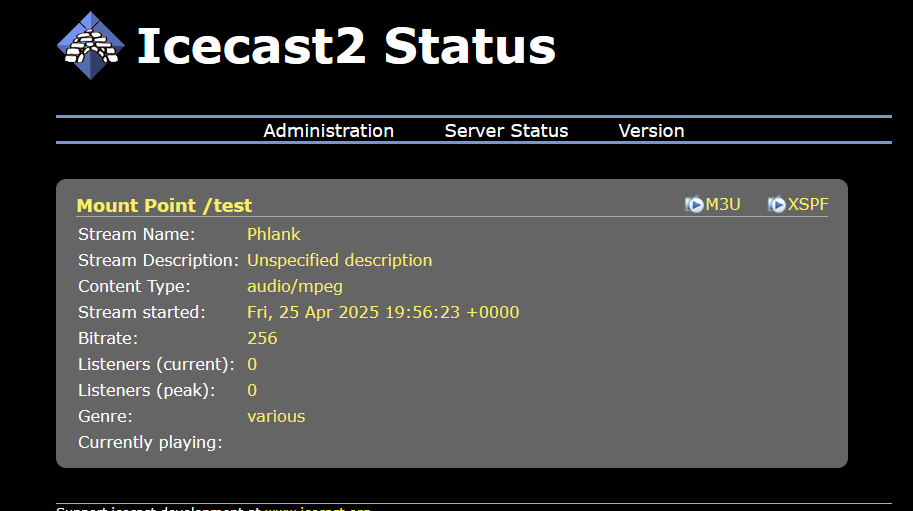
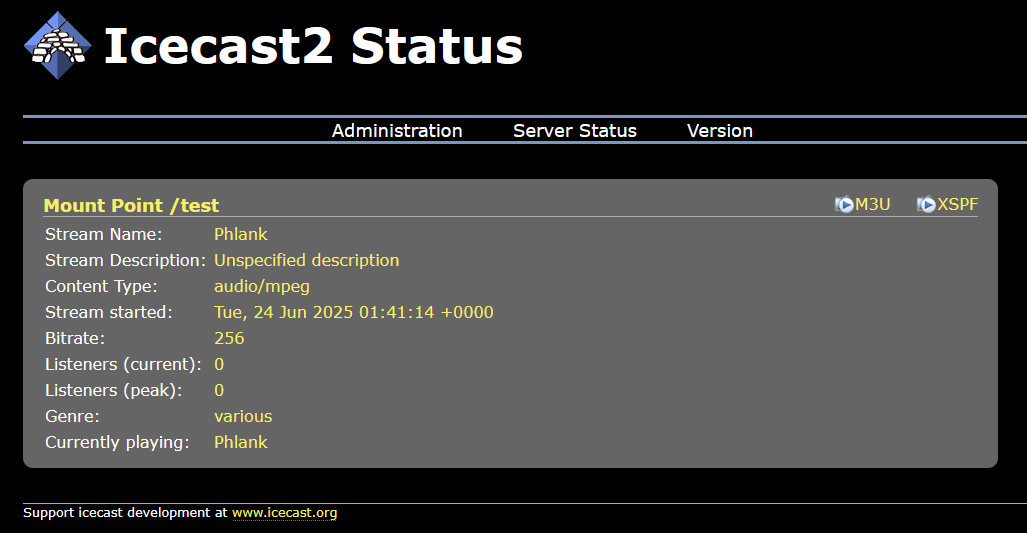
#214 Update software stream instructions

diff --git a/src/client/src/components/views/dashboard/streaming/SoftwareStreamingDirections.vue b/src/client/src/components/views/dashboard/streaming/SoftwareStreamingDirections.vue
@@ -1,12 +1,14 @@
 <template>
   <div class="software-streaming-directions">
-    <h2>Streaming from DJ software</h2>
+    <h4>Introduction</h4>
     <p>
-      Most DJing software has streaming capabilities built in. For the purpose of these
+      Many DJ software applications have streaming capability built in. For those that don't, this
+      guide won't be very useful, but that doesn't mean they can't be used. Skip to the end if you
+      are a Serato user or use another software without streaming built-in. For the purpose of these
       instructions, I will show the process on the open-source, cross-platform DJing software
-      <a href="https://mixxx.org/">Mixxx</a>.
+      <a href="https://mixxx.org/">Mixxx.</a>
     </p>
-    <h3>Stream settings</h3>
+    <h4>Stream settings</h4>
     <p>
       In Mixxx, first open the Preferences menu by clicking on Options in the menu bar and then
       Preferences.
@@ -17,8 +19,8 @@
     <p>
       From here, find the Live Broadcasting section on the left-side navigation of the Preferences
       menu. In here, you will set up the connection and stream info. Set the first sections up to
-      match what is given in the below image.
-      <b>You will need to ask @phlank in discord for the password.</b>
+      match what is given in the below image. The password is
+      {{ connectionInfoStore.testInfo()?.password }}
     </p>
     <img
       alt="How to locate the Live Broadcasting section, and the first set of items available"
@@ -27,53 +29,80 @@
       You <i>MUST</i> use MP3 for the encoding in order for all browsers to be able to listen to the
       stream. 256kbps is the minimum bitrate we will use for quality reasons.
     </Message>
-    <p>Next, scroll down and set up the stream info.</p>
+    <h4>Stream metadata</h4>
+    <p>
+      Scroll down and set up the stream info. In whatever software you are using, the track title is
+      what will appear on the play button on the website.
+    </p>
     <img
       alt="Stream info setup"
       src="@/assets/stream-setup-img/mixxx-broadcasting-test-2.png" />
+    <p>Finally, click the Apply button at the bottom right and close the Preferences window.</p>
+    <h4>Test stream</h4>
     <p>
-      Finally, click the Apply button at the bottom right and close the Preferences window. Now,
-      click on the following to begin streaming to the "test" location:
+      Start broadcasting. In Mixxx, click the On Air button at the top right of the main window to
+      begin. Once the button turns green to indicate a good connection, start playing a song.
     </p>
     <img
       alt="Directions for starting the broadcast stream"
       src="@/assets/stream-setup-img/mixxx-broadcasting-test-3.png" />
     <p>
-      After clicking on Enable Live Broadcasting, navigate to the server's
-      <a :href="streamStatus">stream status page</a>. You should see your stream appear like so:
+      Navigate to the
+      <a href="https://lowpressurezone.com:8443/">test stream status page.</a> You should see your
+      stream appear like below. You may need to send audio to see the Now Playing field appear.
     </p>
     <img
       alt="Broadcasting debug test"
       src="@/assets/stream-setup-img/broadcasting-debug-test.png" />
     <p>
-      If your connection was unsuccessful and someone else is using the /test mount point, you can
-      change the Mount in your Server connection settings to <kbd>test2</kbd>.
+      On your phone, navigate to the
+      <a href="https://lowpressurezone.com:8443/test">test audio page.</a> Listen for a moment and
+      make sure that the audio sounds good. Disconnect when you are done.
     </p>
+    <h4>Live stream settings</h4>
     <p>
-      After seeing your appropriate stream info appear on the debug page, navigate to the stream's
-      URL to listen and ensure things sound okay. The URL will be
-      <kbd>https://lowpressurezone.com:8443/{mount}</kbd>, where <kbd>{mount}</kbd> is either
-      <kbd>test</kbd> or <kbd>test2</kbd>.
+      Now that you have streaming configured, open the preferences for streaming again and update
+      the information to match the Live Stream configuration below. The next time you stream, it
+      will be accessible through the play button on the website.
     </p>
+    <img
+      alt="Mixxx live configuration"
+      src="@/assets/stream-setup-img/mixxx-live-config.png" />
+    <p>The password for the live stream is the same as the test stream.</p>
+    <h4>Software without streaming</h4>
     <p>
-      Now that you have streaming configured, change your Mount to <kbd>live</kbd>, and the next
-      time you stream, it will be accessible through the play button on the website :)
+      Several people on the server use Serato. However, those users typically use some type of
+      virtual audio cable software and route the application audio into a program called Butt.
+      Instructions for connecting to the stream with Butt are on the Decks and Mixer tab at the top
+      of this page. A recommended option for the virtual audio cable software is VB-CABLE, which
+      works on both Windows and Mac.
     </p>
   </div>
 </template>
 
 <script lang="ts" setup>
 import { Message } from 'primevue'
+import { useConnectionInfoStore } from '@/stores/connectionInfoStore.ts'
+import { onMounted } from 'vue'
 
-const streamStatus = import.meta.env.VITE_STREAM_STATUS_URL
+const connectionInfoStore = useConnectionInfoStore()
+
+onMounted(async () => {
+  await connectionInfoStore.loadIfNotInitialized()
+})
 </script>
 
 <style lang="scss">
 .software-streaming-directions {
   overflow-x: auto;
+  text-align: center;
 
   img {
     max-width: 100%;
+  }
+
+  p {
+    text-align: left;
   }
 }
 </style>

diff --git a/src/client/src/components/views/dashboard/streaming/ExternalStreamingDirections.vue b/src/client/src/components/views/dashboard/streaming/ExternalStreamingDirections.vue
@@ -110,9 +110,13 @@
       src="@/assets/stream-setup-img/broadcasting-debug-test.png" />
     <p>
       If everything is sounding good, go ahead and stop the stream with the square button next to
-      the play button in Butt. After that, go back to settings. Click Edit on the Server settings
-      and update the information to match the Live Stream configuration below. The password is the
-      same as the test stream.
+      the play button in Butt.
+    </p>
+    <h4>Live stream settings</h4>
+    <p>
+      After that, go back to the Butt settings. Click Edit on the Server settings and update the
+      information to match the Live Stream configuration below. The password is the same as the test
+      stream.
     </p>
     <img
       alt="Set the server settings to match the live stream"
